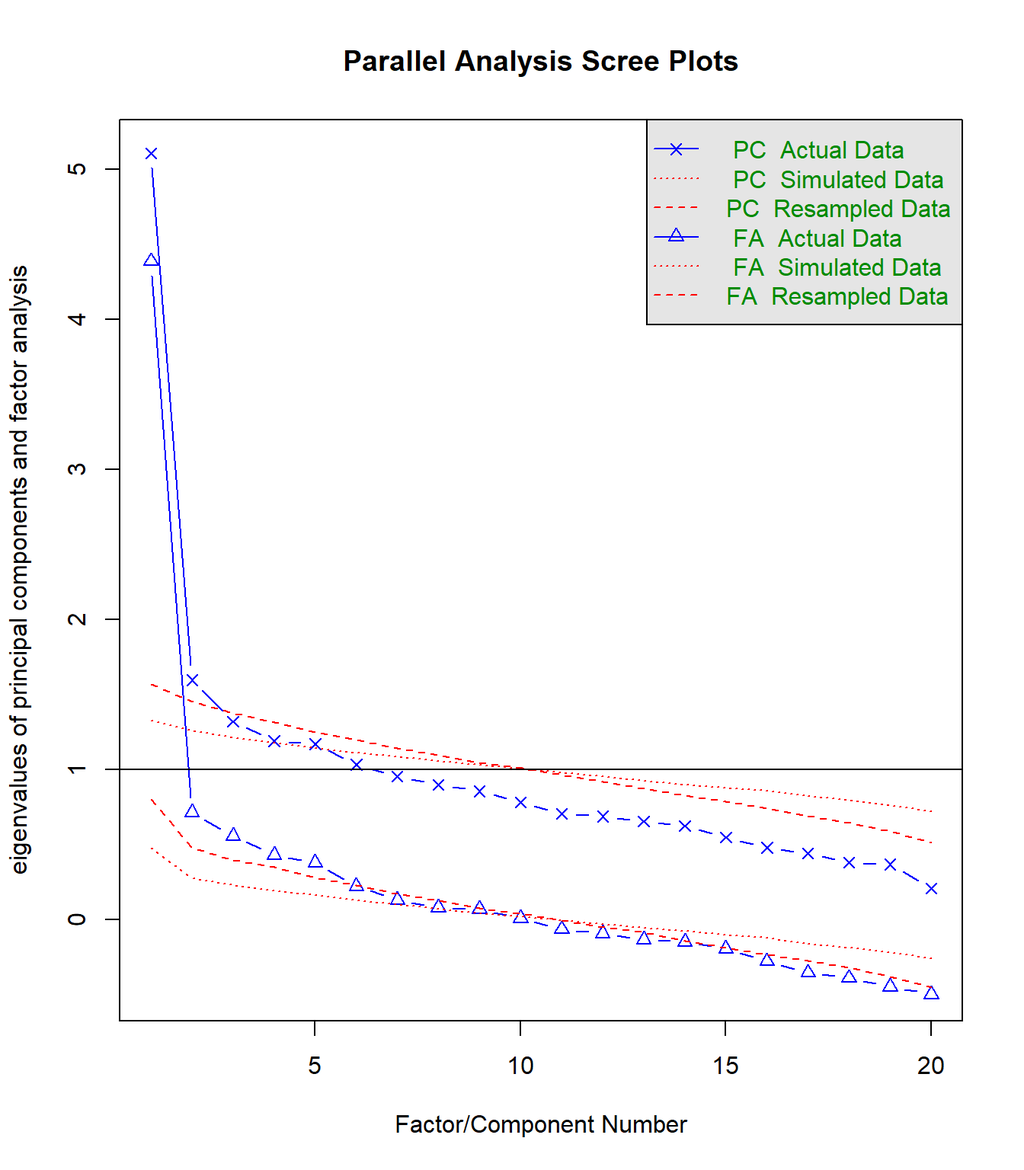
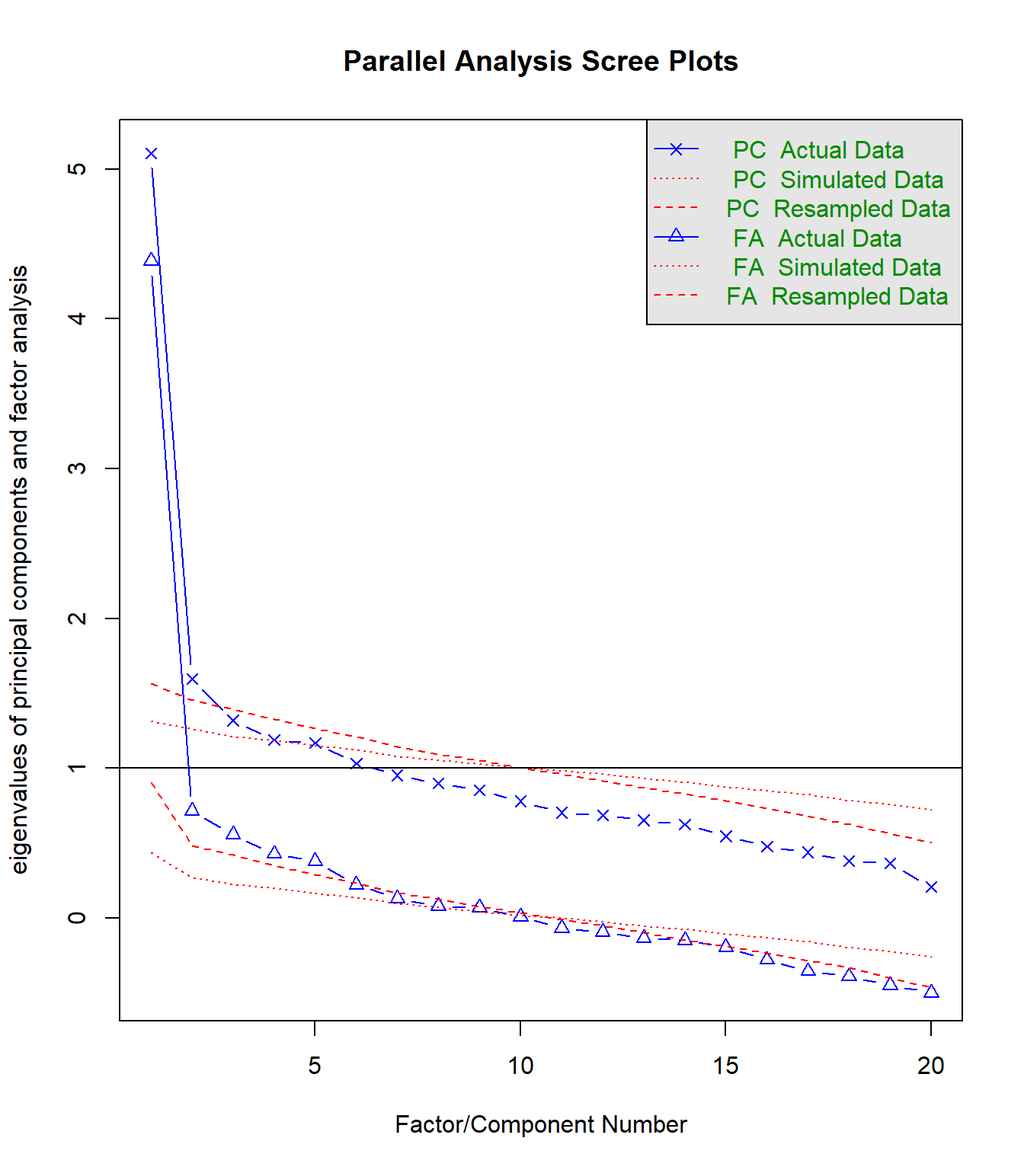
switched math rendering method to katex

diff --git a/docs/project_1.html b/docs/project_1.html
@@ -125,8 +125,22 @@ div.csl-indent {
   }
 }</script>
 
-  <script src="https://cdnjs.cloudflare.com/polyfill/v3/polyfill.min.js?features=es6"></script>
-  <script defer="" src="https://cdn.jsdelivr.net/npm/mathjax@3/es5/tex-chtml-full.js" type="text/javascript"></script>
+  <script>window.backupDefine = window.define; window.define = undefined;</script><script src="https://cdn.jsdelivr.net/npm/katex@latest/dist/katex.min.js"></script>
+  <script>document.addEventListener("DOMContentLoaded", function () {
+ var mathElements = document.getElementsByClassName("math");
+ var macros = [];
+ for (var i = 0; i < mathElements.length; i++) {
+  var texText = mathElements[i].firstChild;
+  if (mathElements[i].tagName == "SPAN") {
+   katex.render(texText.data, mathElements[i], {
+    displayMode: mathElements[i].classList.contains('display'),
+    throwOnError: false,
+    macros: macros,
+    fleqn: false
+   });
+}}});
+  </script>
+  <script>window.define = window.backupDefine; window.backupDefine = undefined;</script><link rel="stylesheet" href="https://cdn.jsdelivr.net/npm/katex@latest/dist/katex.min.css">
 
 <script type="text/javascript">
 const typesetMath = (el) => {
@@ -316,34 +330,34 @@ X1    1 669 12.13 3.65     12   12.22 4.45   3  20    17 -0.17    -0.68 0.14</co
 <section id="classical-reliability-analysis" class="level2">
 <h2 class="anchored" data-anchor-id="classical-reliability-analysis">Classical Reliability Analysis</h2>
 <p>The most common form of reliability that is analyzed in practice is internal consistency, which is typically estimated and reported using Cronbach’s alpha. Internal consistency can be informally defined as the extent to which the items correlate with one another and thus appear to be measuring the same thing. This informal definition raises a natural question: <em>how is internal consistency a measure of reliability?</em> Internal consistency seems to be about the consistency of items within an instrument, while reliability seems to be about the consistency of scores obtained when repeated measures of the same instrument are taken. This raises a perhaps even more fundamental question: <em>how can the reliability of an instrument be meaningful without requiring repeated measures?</em></p>
-<p>These questions can be answered by examining the assumptions of the classical test theory (CTT) framework. The core component of the CTT framework is the <em>classical true score model</em>, which states that a <em>single</em> observed score <span class="math inline">\(X\)</span> can be decomposed into a true score and an error score:</p>
-<p><span class="math display">\[X=T+E\]</span></p>
-<p>Where the true score <span class="math inline">\(T\)</span> is defined as the expectation of the hypothetical distribution of observed scores if it were possible to obtain an infinite number of independent repeated measures, which is sometimes called the <em>propensity definition</em> of the true score:</p>
-<p><span class="math display">\[T=E[X]\]</span></p>
+<p>These questions can be answered by examining the assumptions of the classical test theory (CTT) framework. The core component of the CTT framework is the <em>classical true score model</em>, which states that a <em>single</em> observed score <span class="math inline">X</span> can be decomposed into a true score and an error score:</p>
+<p><span class="math display">X=T+E</span></p>
+<p>Where the true score <span class="math inline">T</span> is defined as the expectation of the hypothetical distribution of observed scores if it were possible to obtain an infinite number of independent repeated measures, which is sometimes called the <em>propensity definition</em> of the true score:</p>
+<p><span class="math display">T=E[X]</span></p>
 <p>From this definition of true score, it follows that the error score does not bias the true score and does not covary with the true score:</p>
-<p><span class="math display">\[E[E]=0\]</span> <span class="math display">\[Cov[T,E]=0\]</span> This is because:</p>
-<p><span class="math display">\[E=X-T\]</span> <span class="math display">\[E[E]=E[X-T]\]</span> <span class="math display">\[=E[X]-E[T]\]</span> <span class="math display">\[=T-T\]</span> <span class="math display">\[=0\]</span></p>
-<p>The proof that <span class="math inline">\(Cov[T,E]=0\)</span> is more complicated and an abbreviated version is shown here.</p>
-<p><span class="math display">\[Cov[T,E]=E[TE]-E[T]E[E]\]</span> <span class="math display">\[\text{it can be shown that} \; E[TE]=0\]</span> <span class="math display">\[=0-T(0)\]</span> <span class="math display">\[=0\]</span></p>
+<p><span class="math display">E[E]=0</span> <span class="math display">Cov[T,E]=0</span> This is because:</p>
+<p><span class="math display">E=X-T</span> <span class="math display">E[E]=E[X-T]</span> <span class="math display">=E[X]-E[T]</span> <span class="math display">=T-T</span> <span class="math display">=0</span></p>
+<p>The proof that <span class="math inline">Cov[T,E]=0</span> is more complicated and an abbreviated version is shown here.</p>
+<p><span class="math display">Cov[T,E]=E[TE]-E[T]E[E]</span> <span class="math display">\text{it can be shown that} \; E[TE]=0</span> <span class="math display">=0-T(0)</span> <span class="math display">=0</span></p>
 <p>It then follows that the variance of the observed scores can be decomposed into the true score variance and the error score variance:</p>
-<p><span class="math display">\[Var[X]=Var[T]+Var[E]\]</span></p>
+<p><span class="math display">Var[X]=Var[T]+Var[E]</span></p>
 <p>This is because:</p>
-<p><span class="math display">\[Var[X]=Var[T+E]\]</span> <span class="math display">\[=Var[T]+Var[E]+2Cov[T,E]\]</span> <span class="math display">\[=Var[T]+Var[E]\]</span></p>
+<p><span class="math display">Var[X]=Var[T+E]</span> <span class="math display">=Var[T]+Var[E]+2Cov[T,E]</span> <span class="math display">=Var[T]+Var[E]</span></p>
 <p>The reliability coefficient can then be defined conceptually as the ratio of the true score variance to the observed score variance:</p>
-<p><span class="math display">\[Rel[X] = Cor^2[X,T] = \frac{Var[T]}{Var[X]} = \frac{Var[T]}{Var[T]+Var[E]}\]</span></p>
+<p><span class="math display">Rel[X] = Cor^2[X,T] = \frac{Var[T]}{Var[X]} = \frac{Var[T]}{Var[T]+Var[E]}</span></p>
 <p>The propensity definition of the true score and the conceptual definition of reliability are the two basic definitions of the classical true score model. However, in its current form, the classical true score model is very limited in its utility. The issue is that, as hinted at earlier, the model only explains a <em>single</em> measurement at a time, which could be a single item score or a single test score. In other words, the model can only explain a single random variable X at a time; there are no subscripts for X, T, or E.</p>
 <p>This is a problem because there is, in fact, no way to estimate reliability under the classical true score model as defined thus far. The model is unidentified, since there is only one observed variable (X) and two unknowns (T and E). To resolve this issue, multiple measurements are needed, which may either be multiple item scores from one individual, or multiple test scores from a group of individuals. Given multiple measurements, the problem then becomes that of determining how the measurements need to relate to each other so that they can be combined in useful ways.</p>
 <p>First, the assumption of <em>local independence</em> is almost always made. This assumption states that, given the true score(s), the observed scores are conditionally independent. Notably, this assumption provides the following useful result, which is that the errors between two distinct measurements do not covary. This result is very useful because many estimation methods used in CTT rely on the covariances between observed scores. These computations would be intractable if the covariances between error scores could not be set equal to zero.</p>
-<p><span class="math display">\[Cov[E_i,E_j]=0, \; \text{for items} \; i \neq j\]</span></p>
+<p><span class="math display">Cov[E_i,E_j]=0, \; \text{for items} \; i \neq j</span></p>
 <p>Next, there are additional assumptions made about (1) how the true scores between measurements relate to each other, and (2) how the error variances between measurements relate to each other. Here, there are four sets of additional assumptions which are nested within each other: <em>parallel</em>, <em>tau-equivalent</em>, <em>essentially tau-equivalent</em>, and <em>congeneric</em> measurements.</p>
-<p>The assumption of parallel measurements states that all measurements have the same true score <span class="math inline">\(T\)</span> and the same error variance <span class="math inline">\(\sigma^2_E\)</span>. The assumption of parallel measurements is the strictest because it implies that all measurements are fully interchangeable. Statistically, there is no way to tell them apart. Under these conditions, the CTT model becomes:</p>
-<p><span class="math display">\[X_i=T+E_i, \; \text{where} \; Var[E_i]=\sigma^2_E \; \text{for all} \; i\]</span></p>
+<p>The assumption of parallel measurements states that all measurements have the same true score <span class="math inline">T</span> and the same error variance <span class="math inline">\sigma^2_E</span>. The assumption of parallel measurements is the strictest because it implies that all measurements are fully interchangeable. Statistically, there is no way to tell them apart. Under these conditions, the CTT model becomes:</p>
+<p><span class="math display">X_i=T+E_i, \; \text{where} \; Var[E_i]=\sigma^2_E \; \text{for all} \; i</span></p>
 <p>The assumption of tau-equivalent measurements is slightly weaker by allowing the error variance to differ between measurements. The CTT model becomes:</p>
-<p><span class="math display">\[X_i=T+E_i, \; \text{where} \; Var[E_i] \; \text{can differ across i}\]</span></p>
-<p>The assumption of essentially tau-equivalent measurements is weaker still by allowing the true scores to differ from a common true score <span class="math inline">\(T\)</span> by some <em>additive constant</em> between measurements. The CTT model becomes:</p>
-<p><span class="math display">\[X_i=a_i+T+E_i, \; \text{where} \; Var[E_i] \; \text{can differ across i}\]</span></p>
-<p>Lastly, the assumption of congeneric measurements is the weakest by allowing the true scores to differ from a common true score <span class="math inline">\(T\)</span> by some <em>linear transformation</em> of <span class="math inline">\(T\)</span>. The CTT model becomes:</p>
-<p><span class="math display">\[X_i=a_i+\lambda_iT+E_i, \; \text{where} \; Var[E_i] \; \text{can differ across i}\]</span></p>
+<p><span class="math display">X_i=T+E_i, \; \text{where} \; Var[E_i] \; \text{can differ across i}</span></p>
+<p>The assumption of essentially tau-equivalent measurements is weaker still by allowing the true scores to differ from a common true score <span class="math inline">T</span> by some <em>additive constant</em> between measurements. The CTT model becomes:</p>
+<p><span class="math display">X_i=a_i+T+E_i, \; \text{where} \; Var[E_i] \; \text{can differ across i}</span></p>
+<p>Lastly, the assumption of congeneric measurements is the weakest by allowing the true scores to differ from a common true score <span class="math inline">T</span> by some <em>linear transformation</em> of <span class="math inline">T</span>. The CTT model becomes:</p>
+<p><span class="math display">X_i=a_i+\lambda_iT+E_i, \; \text{where} \; Var[E_i] \; \text{can differ across i}</span></p>
 <p>It can be shown that under the conditions of essential tau-equivalence or stricter, the internal consistency of measurements defined by Cronbach’s alpha is equivalent to the reliability of measurement defined conceptually as the ratio of true score variance to observed score variance. Additionally, it can be shown that under the weaker conditions of congeneric measurements, Cronbach’s alpha is a lower bound of the reliability of measurement.</p>
 <p>To conclude the brief theoretical exposition, we see that the CTT framework makes additional assumptions beyond the classical true score model which makes it so that multiple measurements (either multiple item scores from the same individual or multiple test scores from a group of individuals) can be used to estimate the reliability of a test without requiring repeated measures.</p>
 <p>The tradeoff for this nice theoretical result is that the assumptions of either essential tau-equivalence or congeneric measurements have to be tenable. If we claim that the measurements are essentially tau-equivalent, then we are saying that all items load equally on the underlying construct (analogous to equal discrimination). If this is unreasonable, then we may need to settle for congeneric measurements, in which case Cronbach’s alpha only provides a lower bound for reliability.</p>
@@ -450,7 +464,7 @@ QR20      0.717             0.443             0.336      0.701</code></pre>
 </div>
 </div>
 <p>&nbsp;</p>
-<p><em><strong>Key Takeaways</strong>: The item difficulties range from p = .291 to p = .848, which are unproblematic and indicate that there are no items with severe ceiling or floor effects. Notably, item 17 has very low discrimination (<span class="math inline">\(r_{IR}\)</span> = .049) as well as being a relatively challenging item (p = .291). This indicates that item 17 is problematic, since individuals who correctly answered the item were not much more likely to perform well on the other items. This is consistent with item QR17 having an alpha-if-deleted of 0.725, which is higher than the overall Cronbach’s alpha estimate of .716. Additionally, item 7 (p = .541, <span class="math inline">\(r_{IR}\)</span> = .106, <span class="math inline">\(\alpha_{drop}\)</span> = .722) and item 4 (p = .399, RIR = .177, <span class="math inline">\(\alpha_{drop}\)</span> = .715) have poor discrimination which is not attributable to floor or ceiling effects. Thus, item 17, item 7, and item 4 are recommended for revision, in order of importance.</em></p>
+<p><em><strong>Key Takeaways</strong>: The item difficulties range from p = .291 to p = .848, which are unproblematic and indicate that there are no items with severe ceiling or floor effects. Notably, item 17 has very low discrimination (<span class="math inline">r_{IR}</span> = .049) as well as being a relatively challenging item (p = .291). This indicates that item 17 is problematic, since individuals who correctly answered the item were not much more likely to perform well on the other items. This is consistent with item QR17 having an alpha-if-deleted of 0.725, which is higher than the overall Cronbach’s alpha estimate of .716. Additionally, item 7 (p = .541, <span class="math inline">r_{IR}</span> = .106, <span class="math inline">\alpha_{drop}</span> = .722) and item 4 (p = .399, RIR = .177, <span class="math inline">\alpha_{drop}</span> = .715) have poor discrimination which is not attributable to floor or ceiling effects. Thus, item 17, item 7, and item 4 are recommended for revision, in order of importance.</em></p>
 <hr>
 </section>
 <section id="classical-distractor-analysis" class="level2">
@@ -722,11 +736,11 @@ D       *   D 480 0.72  0.34    0.46  0.48  0.74  0.84  0.94</code></pre>
 <li>Item 20: distractor A (prop = .02).</li>
 </ul>
 <p>Earlier it was mentioned that a low overall selection proportion does not necessarily mean that the distractor is problematic. This is because the item may be an easy item, in which case low overall selection proportions are expected. Additionally, the distractor may be selected to a substantial degree by lower total score groups, but almost never selected by higher total score groups, resulting in a low overall selection proportion. Such distractors may still discriminate well, as indicated by the point-biserial correlations, even though they have a low overall selection proportion. Let us examine the potential non-functioning distractors with these considerations in mind.</p>
-<p>For item 1, Distractor A has a moderate negative point-biserial correlation (<span class="math inline">\(r_{pbis}=-.25\)</span>) with the selection proportions (.09, .05, .01, .00) in order from lowest to highest total score group. Since option A discriminates fairly well and is selected at a substantial frequency by lower total score groups, this distractor is likely unproblematic and does not require revision.</p>
-<p>For item 4, distractors A and B have moderate negative point-biserial correlations (<span class="math inline">\(r_{pbis}=-.27\)</span> and <span class="math inline">\(r_{pbis}=-.26\)</span>, respectively), but they are only selected at a substantial frequency by the lowest total score group, and are almost never selected by the other 3 groups. This suggests that distractors A and B are primarily selected due to chance guessing at low ability levels. Additionally, distractor C clearly dominates the response options, with the selection proportions (.61, .60, .60, .33). The distractor functioning indicates that this item is essentially dichotomous, and is consistent with the context found in the item stem, which essentially asks whether a homeostatic control mechanism is always functioning (option D) or if it only activates in certain scenarios (option C).</p>
-<p>For item 9, distractor C has a moderate negative point-biserial correlation (<span class="math inline">\(r_{pbis}=-.23\)</span>) but is essentially only selected by the lowest total score group (.06, .00, .00, .00). This suggests that distractor C is primarily selected due to chance guessing at low ability levels and may require revision.</p>
-<p>For item 12, distractor B has a weak negative point-biserial correlation (<span class="math inline">\(r_{pbis}=-.14\)</span>) and is essentially only selected by the lowest total score group (.03, .01, .01, .01), and distractor C has a moderate negative point-biserial correlation (<span class="math inline">\(r_{pbis}=-.21\)</span>) and is selected at a substantial frequency in the lower total score groups (.07, .06, .03, .00). This suggests that distractor B may require revision, but distractor C is likely unproblematic.</p>
-<p>For item 20, distractor A has a weak negative point-biserial correlation (<span class="math inline">\(r_{pbis}=-.19\)</span>) and is essentially only selected by the lowest total score group (.05, .01, .00, .00). This suggests that distractor A is primarily selected due to chance guessing at low ability levels and may require revision. Additionally, this item is structurally similar to item 4, with the distractor functioning and item stem indicating that the item is essentially dichotomous.</p>
+<p>For item 1, Distractor A has a moderate negative point-biserial correlation (<span class="math inline">r_{pbis}=-.25</span>) with the selection proportions (.09, .05, .01, .00) in order from lowest to highest total score group. Since option A discriminates fairly well and is selected at a substantial frequency by lower total score groups, this distractor is likely unproblematic and does not require revision.</p>
+<p>For item 4, distractors A and B have moderate negative point-biserial correlations (<span class="math inline">r_{pbis}=-.27</span> and <span class="math inline">r_{pbis}=-.26</span>, respectively), but they are only selected at a substantial frequency by the lowest total score group, and are almost never selected by the other 3 groups. This suggests that distractors A and B are primarily selected due to chance guessing at low ability levels. Additionally, distractor C clearly dominates the response options, with the selection proportions (.61, .60, .60, .33). The distractor functioning indicates that this item is essentially dichotomous, and is consistent with the context found in the item stem, which essentially asks whether a homeostatic control mechanism is always functioning (option D) or if it only activates in certain scenarios (option C).</p>
+<p>For item 9, distractor C has a moderate negative point-biserial correlation (<span class="math inline">r_{pbis}=-.23</span>) but is essentially only selected by the lowest total score group (.06, .00, .00, .00). This suggests that distractor C is primarily selected due to chance guessing at low ability levels and may require revision.</p>
+<p>For item 12, distractor B has a weak negative point-biserial correlation (<span class="math inline">r_{pbis}=-.14</span>) and is essentially only selected by the lowest total score group (.03, .01, .01, .01), and distractor C has a moderate negative point-biserial correlation (<span class="math inline">r_{pbis}=-.21</span>) and is selected at a substantial frequency in the lower total score groups (.07, .06, .03, .00). This suggests that distractor B may require revision, but distractor C is likely unproblematic.</p>
+<p>For item 20, distractor A has a weak negative point-biserial correlation (<span class="math inline">r_{pbis}=-.19</span>) and is essentially only selected by the lowest total score group (.05, .01, .00, .00). This suggests that distractor A is primarily selected due to chance guessing at low ability levels and may require revision. Additionally, this item is structurally similar to item 4, with the distractor functioning and item stem indicating that the item is essentially dichotomous.</p>
 <p>An additional point worth noting is that some distractors (notably in item 15 and item 17) have a trendline which is peaked around the middle total score range. This suggests that these distractors are of a different type compared to those which trend downwards monotonically; rather than affecting lower ability individuals the most, individuals need to be at a certain ability level to possess the partial understanding required for these distractors to function. These distractors are not necessarily problematic and could be useful and informative. However, the functioning of these distractors is inconclusive under classical distractor analyses. More sophisticated methods, such as item response theory (IRT) approaches using the nominal response model (NRM), may better explain the functioning of these distractors.</p>
 <p><em>In conclusion, the classical distractor analysis suggests that the distractors are functioning well in general. Item 9 (distractor C) and item 12 (distractor B) are infrequently selected and are essentially only selected by the group with the lowest 25% of total scores, which suggests that these distractors may be non-functioning and may benefit from revision. Additionally, the distractor functioning for item 4 and item 20 suggests that these items are essentially dichotomous, which is consistent with the context found in the item stems. These distractors may benefit from revision, or they may be retained as is, since these items still provide useful information about test-takers.</em></p>
 <hr>
@@ -988,7 +1002,7 @@ f7  220.098  71       0.056 0.029 0.874 -241.813</code></pre>
 <div class="cell-output cell-output-stdout">
 <pre><code>
 Loadings:
-     ML4    ML1    ML2    ML3    ML5    ML6   
+     ML1    ML3    ML4    ML2    ML5    ML6   
 QR1   0.334         0.212                     
 QR2                                      0.948
 QR3   0.293                              0.356
@@ -1010,7 +1024,7 @@ QR18         0.963
 QR19  0.291  0.556                            
 QR20                0.250  0.444              
 
-                 ML4   ML1   ML2   ML3   ML5   ML6
+                 ML1   ML3   ML4   ML2   ML5   ML6
 SS loadings    1.620 1.505 1.214 1.300 1.191 1.182
 Proportion Var 0.081 0.075 0.061 0.065 0.060 0.059
 Cumulative Var 0.081 0.156 0.217 0.282 0.341 0.401</code></pre>
@@ -1115,7 +1129,7 @@ QR20 -1.06 -1.16  0.95</code></pre>
 X1    1 20 0.91 0.42   0.93    0.91 0.34 0.12 1.8  1.67 -0.01    -0.43 0.09</code></pre>
 </div>
 </div>
-<p>Now let us compare the fit of the 1PL (Rasch) and 2PL models. Since the models are nested, a likelihood ratio test (LRT) can be performed and relative model fit statistics can be obtained. Furthermore, absolute model fit statistics can be obtained by calculating the M2 index, which is specifically designed to compare IRT models. Additionally, item fit can be compared by calculating the S-X<span class="math inline">\(^2\)</span> statistics for each item.</p>
+<p>Now let us compare the fit of the 1PL (Rasch) and 2PL models. Since the models are nested, a likelihood ratio test (LRT) can be performed and relative model fit statistics can be obtained. Furthermore, absolute model fit statistics can be obtained by calculating the M2 index, which is specifically designed to compare IRT models. Additionally, item fit can be compared by calculating the S-X<span class="math inline">^2</span> statistics for each item.</p>
 <div class="cell">
 <div class="code-copy-outer-scaffold"><div class="sourceCode cell-code" id="cb56"><pre class="sourceCode r code-with-copy"><code class="sourceCode r"><span id="cb56-1"><a href="#cb56-1" aria-hidden="true" tabindex="-1"></a><span class="do">## Relative fit statistics</span></span>
 <span id="cb56-2"><a href="#cb56-2" aria-hidden="true" tabindex="-1"></a><span class="fu">anova</span>(fit_1PL, fit_2PL)</span></code></pre></div><button title="Copy to Clipboard" class="code-copy-button"><i class="bi"></i></button></div>
@@ -1185,9 +1199,9 @@ stats 331.72 170 0 0.038   0.032    0.044 0.047 0.915 0.924</code></pre>
 20 QR20  9.373      12      0.000  0.671</code></pre>
 </div>
 </div>
-<p>In terms of relative fit, the LRT is significant (<span class="math inline">\(\chi^2\)</span> = 179.33, df = 19, p &lt; .001), which indicates that the more complex model (2PL) fits significantly better than the less complex model (1PL/Rasch). The information criteria all agree with this result, with the 2PL model having a lower AIC by about 141 points and a lower BIC by about 56 points.</p>
+<p>In terms of relative fit, the LRT is significant (<span class="math inline">\chi^2</span> = 179.33, df = 19, p &lt; .001), which indicates that the more complex model (2PL) fits significantly better than the less complex model (1PL/Rasch). The information criteria all agree with this result, with the 2PL model having a lower AIC by about 141 points and a lower BIC by about 56 points.</p>
 <p>In terms of absolute fit, the 2PL model fits better according to every statistic: the M2 is about 199 points lower for the 2PL model, the SRMSR for the 2PL is .047 (compared to .073 for the 1PL), and the TLI and CFI are .915 and .924, respectively. According to conventional guidelines (SRMSR &lt; .05, TLI &gt; .90, CFI &gt; .90), the 2PL model has good fit, while the 1PL model has inadequate fit.</p>
-<p>In terms of item fit, a significant result (<span class="math inline">\(\alpha\)</span> = .05) in the S-X<span class="math inline">\(^2\)</span> test indicates a misfitting item. Since the S-X<span class="math inline">\(^2\)</span> test is sensitive to sample size, it is also a good idea to look at the RMSEA for an effect size measure (conventional guideline is RMSEA &lt; .05 indicates good fit). For the 1PL model, items 3, 4, 7, 9, 10, 13, 17, 18, and 19 show statistically significant misfit, and items 7 and 17 show practically significant misfit. For the 2PL model, items 10 and 13 show statistically significant misfit, and no items show practically significant misfit. Thus, the 2PL model has much better item fit than the 1PL (Rasch) model.</p>
+<p>In terms of item fit, a significant result (<span class="math inline">\alpha</span> = .05) in the S-X<span class="math inline">^2</span> test indicates a misfitting item. Since the S-X<span class="math inline">^2</span> test is sensitive to sample size, it is also a good idea to look at the RMSEA for an effect size measure (conventional guideline is RMSEA &lt; .05 indicates good fit). For the 1PL model, items 3, 4, 7, 9, 10, 13, 17, 18, and 19 show statistically significant misfit, and items 7 and 17 show practically significant misfit. For the 2PL model, items 10 and 13 show statistically significant misfit, and no items show practically significant misfit. Thus, the 2PL model has much better item fit than the 1PL (Rasch) model.</p>
 <p>Next, let us check how well the local independence assumptions holds under both models. This can be done using Yen’s Q3 statistic.</p>
 <div class="cell">
 <div class="code-copy-outer-scaffold"><div class="sourceCode cell-code" id="cb66"><pre class="sourceCode r code-with-copy"><code class="sourceCode r"><span id="cb66-1"><a href="#cb66-1" aria-hidden="true" tabindex="-1"></a><span class="fu">residuals</span>(fit_1PL, <span class="at">type =</span> <span class="st">"Q3"</span>)</span></code></pre></div><button title="Copy to Clipboard" class="code-copy-button"><i class="bi"></i></button></div>
